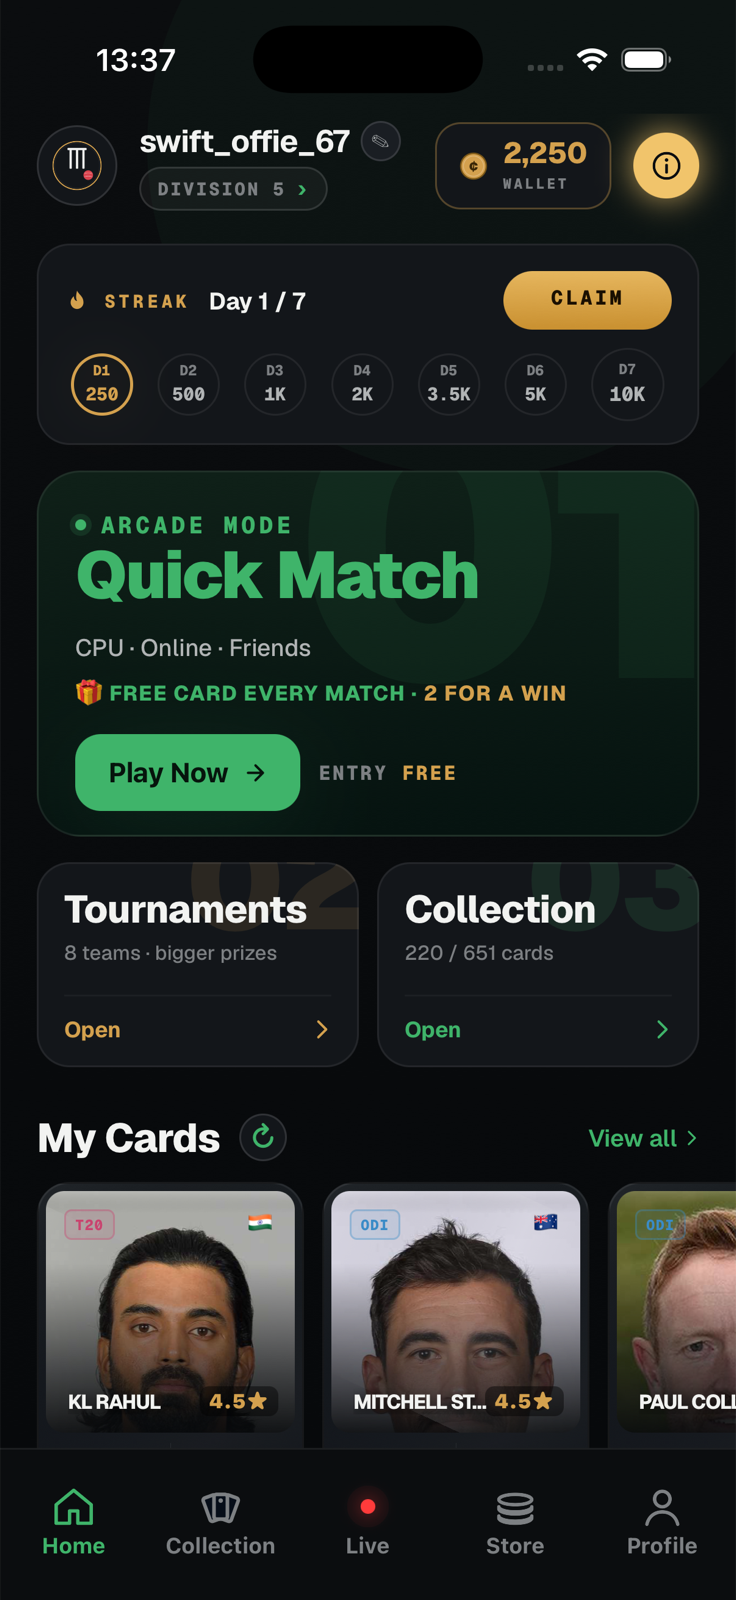
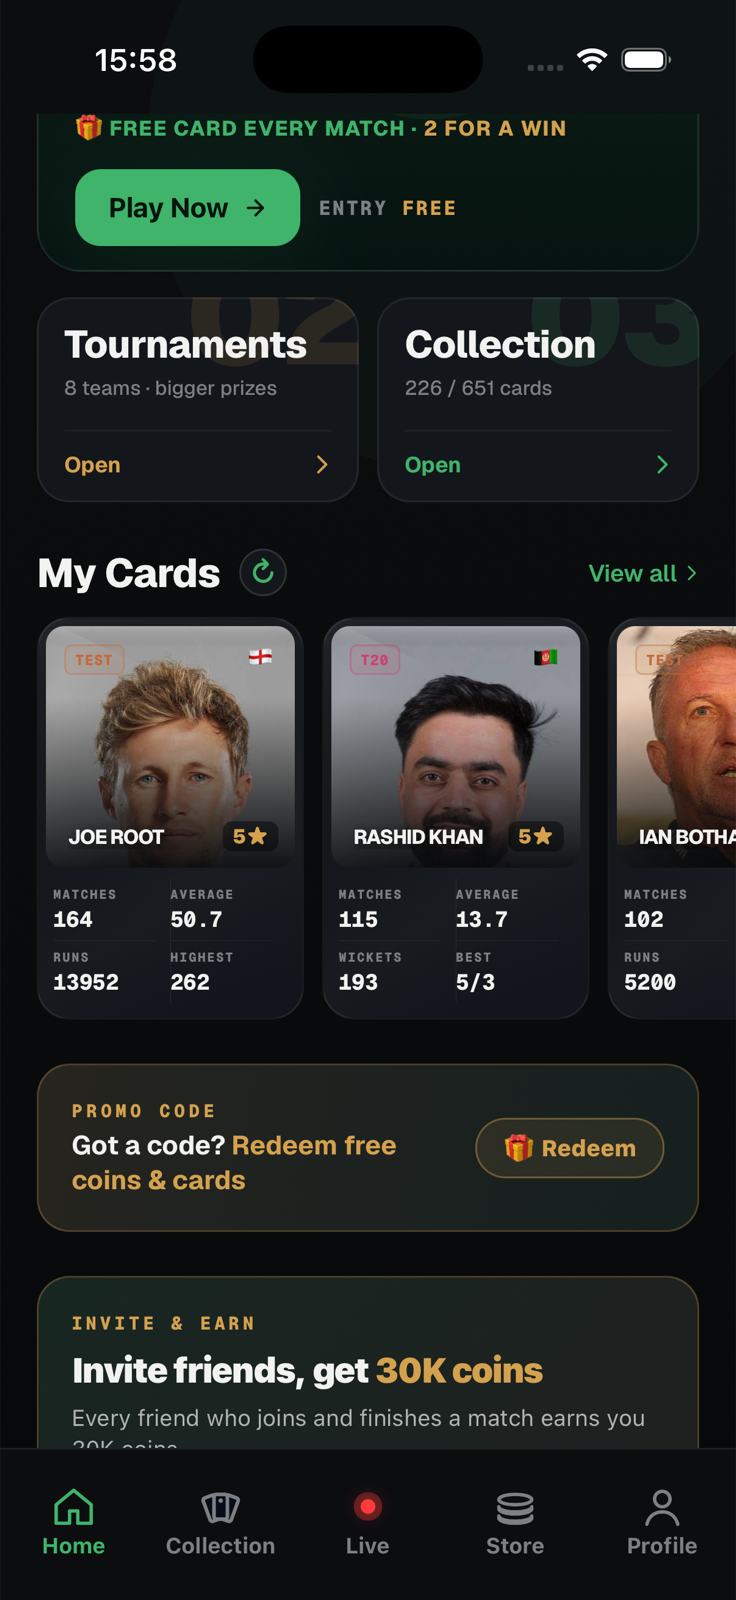
story deck: 1.1.4 refresh — new screenshots (toss, squad picker, match rewards, home hub) + photos-first story

diff --git a/docs/story/index.html b/docs/story/index.html
@@ -220,38 +220,42 @@
     </div>
   </section>
 
-  <!-- 7 · IMAGE GENERATION PIPELINE -->
-  <section class="slide" data-notes="With the data in place, the art. Every one of ~1,480 cards is AI-generated — not licensed photos. Each card gets two illustration prompts, an action shot and a portrait, in one consistent retro trading-card style. These are the actual prompts from the repo. No designer touched a card.">
-    <div class="col stagger" style="gap:6px"><div class="kicker">Chapter 6 · the art</div><h2>Every card is <span class="grad">generated.</span></h2></div>
-    <div class="fill row mt-s" style="gap:1.9vw;align-items:center">
-      <div class="col center"><div class="phone ph-h60"><img src="assets/s-kohli-ai.png" alt=""></div><div class="cap">AI illustration<small>Gemini · descriptor prompt</small></div></div>
-      <div class="col fill gap-s">
-        <div class="code"><span class="h k">▸ actual prompt · Virat Kohli</span>"V Kohli close-up portrait as a retro cricket card illustration, cricket batsman, blue Indian jersey, confident expression, <span class="y">head and upper body only — cropped at chest level</span>, vintage trading-card style, blue-and-saffron gradient, soft stadium bokeh…"</div>
-        <div class="code"><span class="h k">▸ action prompt</span>"SR Tendulkar … batsman in blue &amp; gold Mumbai Indians kit, <span class="y">playing a classic straight drive</span>, bat coming down straight, head over the ball, textbook footwork, dynamic composition…"</div>
-        <div class="row" style="gap:9px;flex-wrap:wrap"><span class="chip">gemini-2.5-flash-image</span><span class="chip y">action + portrait per card</span><span class="chip">~1,480 cards · 0 designers</span></div>
+  <!-- 7 · REAL PLAYER PHOTOS -->
+  <section class="slide" data-notes="With the data in place, the faces. Every card fronts a real photo of the player — headshots plus hand-picked action shots in the right kit, whites for Test, coloured jerseys for ODI and T20. Sourced from the Cricbuzz API and free-licensed archives like Wikimedia Commons, reviewed card by card, and every single image is credited on a public credits page.">
+    <div class="col stagger" style="gap:6px"><div class="kicker">Chapter 6 · the photos</div><h2>Real players, <span class="grad">real photos.</span></h2></div>
+    <div class="fill row mt-s" style="gap:2.2vw;align-items:center">
+      <div class="col center"><div class="phone ph-h60"><img src="assets/s-akram.png" alt=""></div><div class="cap">Wasim Akram<small>photo gallery · swipe through the years</small></div></div>
+      <div class="col fill gap-m">
+        <p class="lead">Every card fronts a <b>real photo</b> — a headshot plus hand-picked action shots in the right kit: whites for Test, coloured jerseys for ODI &amp; T20.</p>
+        <div class="flow" style="max-width:none">
+          <div class="node"><span class="nt">📸 Sourced</span><span class="nd">Cricbuzz API + free-licensed archives (Wikimedia Commons)</span></div><div class="arrow">→</div>
+          <div class="node g"><span class="nt">👀 Reviewed</span><span class="nd">checked card by card — right player, right era, right kit</span></div><div class="arrow">→</div>
+          <div class="node y"><span class="nt">🏷 Credited</span><span class="nd">every image attributed on a public credits page</span></div>
+        </div>
+        <div class="row wrap gap-s"><span class="chip y">700+ real photos</span><span class="chip">format-specific galleries</span><span class="chip">every image credited</span></div>
       </div>
     </div>
   </section>
 
-  <!-- 8 · HEADSHOTS + SUPABASE CDN -->
-  <section class="slide" data-notes="Alongside the AI art, each card carries a real player headshot from the Cricbuzz API — the Kohli card here. Both the generated art and the real photos live in Supabase Storage and are served over a CDN; MongoDB just stores the URL. Bytes stay off the database, and images load fast worldwide.">
-    <div class="col stagger" style="gap:6px"><div class="kicker">Chapter 7 · photos &amp; delivery</div><h2>Real headshots, <span class="grad">served from a CDN.</span></h2></div>
+  <!-- 8 · SUPABASE CDN -->
+  <section class="slide" data-notes="And the delivery. All those photos live in Supabase Storage and are served over a CDN; MongoDB just stores the URL. Bytes stay off the database, and images load fast worldwide.">
+    <div class="col stagger" style="gap:6px"><div class="kicker">Chapter 7 · delivery</div><h2>Every photo, <span class="grad">served from a CDN.</span></h2></div>
     <div class="fill row mt-s" style="gap:2.2vw;align-items:center">
-      <div class="col center"><div class="phone ph-h60"><img src="assets/s-kohli.png" alt=""></div><div class="cap">Real headshot<small>Cricbuzz API photo</small></div></div>
+      <div class="col center"><div class="phone ph-h60"><img src="assets/s-kohli.png" alt=""></div><div class="cap">Virat Kohli<small>real photo · real career stats</small></div></div>
       <div class="col fill gap-m">
-        <p class="lead">Each card also gets a real photo — and every image, AI or photo, is delivered the same way.</p>
+        <p class="lead">One pipeline for every image in the game.</p>
         <div class="flow" style="max-width:none">
-          <div class="node y"><span class="nt">🎨 Gemini art + 📸 Cricbuzz headshot</span><span class="nd">generated + fetched</span></div><div class="arrow">→</div>
+          <div class="node y"><span class="nt">📸 Player photos</span><span class="nd">sourced + reviewed</span></div><div class="arrow">→</div>
           <div class="node g"><span class="nt">🗄 Supabase Storage → CDN</span><span class="nd">public buckets · fast worldwide</span></div>
         </div>
         <p>MongoDB stores only the <b>URL</b> — the image bytes never touch the database.</p>
-        <div class="row wrap gap-s"><span class="chip y">public bucket</span><span class="chip y">CDN delivery</span><span class="chip">765 headshots</span></div>
+        <div class="row wrap gap-s"><span class="chip y">public bucket</span><span class="chip y">CDN delivery</span><span class="chip">700+ photos</span></div>
       </div>
     </div>
   </section>
 
   <!-- 9 · CLAUDE DESIGN → FRONT END -->
-  <section class="slide" data-notes="Now the front end. Claude Code built the screens as a working grey skeleton — every flow functional, unstyled. Then Claude Design turned it into the premium 'Pavilion' theme: dark navy, neon green, illustrated cards. Prove the flows while they're cheap to change; apply the paint once. The badge opens the live design spec.">
+  <section class="slide" data-notes="Now the front end. Claude Code built the screens as a working grey skeleton — every flow functional, unstyled. Then Claude Design turned it into the premium 'Pavilion' theme: dark navy, neon green, gold accents. Prove the flows while they're cheap to change; apply the paint once. The badge opens the live design spec.">
     <div class="col stagger" style="gap:6px"><div class="kicker">Chapter 8 · the design</div><h2>Then the <span class="grad">front end.</span></h2></div>
     <div class="fill row mt-s" style="gap:2.4vw;align-items:center">
       <div class="col fill gap-m">
@@ -261,7 +265,11 @@
           <div class="node g" style="flex:1"><span class="nt">2 · Claude Design</span><span class="nd">a visual pass → the premium "Pavilion" theme on the right</span></div>
         </div>
         <p class="lead">Prove the flows while they're cheap to change. Apply the paint once they're settled — never the other way around.</p>
-        <div class="row wrap gap-s" style="gap:9px"><span class="chip">dark navy + neon green</span><span class="chip">illustrated cards</span><span class="chip">one design system</span></div>
+        <div class="row wrap gap-s" style="gap:9px"><span class="chip">dark navy + neon green</span><span class="chip">gold-trimmed cards</span><span class="chip">one design system</span></div>
+        <a href="https://claude.ai/design/p/019df775-4d5e-79cf-81ee-37615af965da?file=Cricket+Cards+Premium.html" target="_blank" style="display:inline-flex;align-items:center;gap:10px;align-self:flex-start;text-decoration:none;background:rgba(217,119,87,.1);border:1px solid rgba(217,119,87,.45);border-radius:999px;padding:8px 16px 8px 12px;margin-top:4px">
+          <svg width="22" height="22" viewBox="-50 -50 100 100" aria-hidden="true"><g stroke="#D97757" stroke-width="10" stroke-linecap="round"><line y1="-12" y2="-44"/><line y1="-12" y2="-44" transform="rotate(30)"/><line y1="-12" y2="-44" transform="rotate(60)"/><line y1="-12" y2="-44" transform="rotate(90)"/><line y1="-12" y2="-44" transform="rotate(120)"/><line y1="-12" y2="-44" transform="rotate(150)"/><line y1="-12" y2="-44" transform="rotate(180)"/><line y1="-12" y2="-44" transform="rotate(210)"/><line y1="-12" y2="-44" transform="rotate(240)"/><line y1="-12" y2="-44" transform="rotate(270)"/><line y1="-12" y2="-44" transform="rotate(300)"/><line y1="-12" y2="-44" transform="rotate(330)"/></g></svg>
+          <span style="font-weight:800;color:#e8c4b4;font-size:clamp(13px,1.15vw,15px);letter-spacing:.3px">Claude Design <span style="opacity:.55;font-weight:600">— open the spec &amp; demo →</span></span>
+        </a>
       </div>
       <div class="phone ph-h70 lift"><img src="assets/s-home.png" alt=""></div>
     </div>
@@ -270,7 +278,7 @@
   <!-- 10 · THE GAME · RULES -->
   <section class="slide" data-notes="The result — the game itself. It's a stat-comparison card game, Top Trumps for cricket. Hold a hand of real cricketers, call a stat each round, the better number wins the card (lower for bowling average and economy), most cards wins. Four formats, 15-second turns.">
     <div class="fill row mt-s" style="gap:2.2vw;align-items:center">
-      <div class="phone ph-h64"><img src="assets/s-onboard.png" alt=""></div>
+      <div class="phone ph-h64"><img src="assets/s-squadpick.png" alt=""></div>
       <div class="col fill gap-m">
         <div class="kicker">Chapter 9 · the game</div>
         <h2>Top Trumps, <span class="grad">for cricket.</span></h2>
@@ -287,13 +295,13 @@
   </section>
 
   <!-- 11 · GAMEPLAY IN ACTION -->
-  <section class="slide" data-notes="See it played. One stat decides each round — the better number captures the opponent's card. The duel, a round won, a round lost, and the final match result. Whoever holds the most cards takes the match.">
+  <section class="slide" data-notes="See it played. The toss decides who calls first — real lineups, real faces. Then one stat decides each round: the better number captures the opponent's card. Win or lose, every finished match drops free cards into your collection — two if you win.">
     <div class="col stagger" style="gap:6px"><div class="kicker">The game · in action</div><h2>Call a stat. <span class="grad">Better wins.</span></h2></div>
     <div class="grid4 fill mt-m" style="align-items:start">
+      <div class="col center"><div class="phone ph-h54"><img src="assets/s-toss.png" alt=""></div><div class="cap">The toss<small>real lineups · winner plays first</small></div></div>
       <div class="col center"><div class="phone ph-h54"><img src="assets/s-duel.png" alt=""></div><div class="cap">The duel<small>better stat wins the card</small></div></div>
       <div class="col center"><div class="phone ph-h54"><img src="assets/s-win.png" alt=""></div><div class="cap">Round won<small>higher number wins</small></div></div>
-      <div class="col center"><div class="phone ph-h54"><img src="assets/s-lose.png" alt=""></div><div class="cap">Round lost<small>lower number loses</small></div></div>
-      <div class="col center"><div class="phone ph-h54"><img src="assets/s-matchresult.png" alt=""></div><div class="cap">Match result<small>most cards wins · MOTM</small></div></div>
+      <div class="col center"><div class="phone ph-h54"><img src="assets/s-matchresult.png" alt=""></div><div class="cap">Match reward<small>free cards every match · 2 for a win</small></div></div>
     </div>
   </section>
 
@@ -319,10 +327,10 @@
   </section>
 
   <!-- 15 · SHIPPED -->
-  <section class="slide" data-notes="And it shipped — live on the App Store and Google Play, with live scores, AI cards and online play. From a deck of cards on a table to a real app on real phones.">
+  <section class="slide" data-notes="And it shipped — live on the App Store and Google Play, with real player photos, live scores, free card rewards and online play. From a deck of cards on a table to a real app on real phones.">
     <div class="col stagger" style="gap:6px"><div class="kicker">Chapter 10 · shipped</div><h2>Live on <span class="grad">both stores.</span></h2></div>
     <div class="fill col center" style="gap:26px;justify-content:center">
-      <p class="lead center" style="max-width:820px">From a deck of cards on a table to a real game on real phones — iOS, Android, with live cricket scores.</p>
+      <p class="lead center" style="max-width:820px">From a deck of cards on a table to a real game on real phones — iOS, Android, live cricket scores, and a free card with every match.</p>
       <div class="row center" style="gap:42px">
         <div class="col center gap-s"><div class="qr" style="width:clamp(120px,13vw,160px)"><img src="assets/qr-appstore.png" alt=""></div><div class="badge-os"><span class="ico"></span><div><div class="t">Download on the</div><div class="s">App Store</div></div></div></div>
         <div class="col center gap-s"><div class="qr" style="width:clamp(120px,13vw,160px)"><img src="assets/qr-play.png" alt=""></div><div class="badge-os"><span class="ico">▶</span><div><div class="t">Get it on</div><div class="s">Google Play</div></div></div></div>
@@ -331,7 +339,7 @@
   </section>
 
   <!-- 16 · TAKEAWAY -->
-  <section class="slide" data-notes="The whole climb, in order: a deck of cards, a sketch, a prompt, the backend, the data, the art, the design, the store. Every tool here is available to anyone, mostly free. The barrier isn't code anymore — it's a clear idea, described well.">
+  <section class="slide" data-notes="The whole climb, in order: a deck of cards, a sketch, a prompt, the backend, the data, the photos, the design, the store. Every tool here is available to anyone, mostly free. The barrier isn't code anymore — it's a clear idea, described well.">
     <div class="col stagger" style="gap:6px"><div class="kicker">The takeaway</div><h2>From a deck of cards <span class="grad">to the App&nbsp;Store.</span></h2></div>
     <div class="fill col center" style="gap:34px;justify-content:center">
       <div class="tl" style="max-width:1200px">
@@ -340,11 +348,11 @@
         <div class="s"><span class="dot"></span><span class="t">📝 Prompt</span><span class="d">plain English</span></div>
         <div class="s"><span class="dot"></span><span class="t">⚙ Backend</span><span class="d">API · DB · Railway</span></div>
         <div class="s"><span class="dot"></span><span class="t">📊 Data</span><span class="d">real stats → cards</span></div>
-        <div class="s"><span class="dot"></span><span class="t">🎨 Art + design</span><span class="d">AI cards, Pavilion UI</span></div>
+        <div class="s"><span class="dot"></span><span class="t">📸 Photos + design</span><span class="d">real players, Pavilion UI</span></div>
         <div class="s"><span class="dot"></span><span class="t green">🚀 Shipped</span><span class="d">on phones</span></div>
       </div>
       <div class="row wrap center gap-s" style="gap:10px;justify-content:center">
-        <span class="chip g">Claude Code</span><span class="chip g">Claude Design</span><span class="chip">Gemini</span><span class="chip">Cricbuzz</span><span class="chip">MongoDB</span><span class="chip">Supabase</span><span class="chip">Amplitude</span><span class="chip">Railway</span><span class="chip">React Native</span><span class="chip">NestJS</span>
+        <span class="chip g">Claude Code</span><span class="chip g">Claude Design</span><span class="chip">Cricbuzz</span><span class="chip">MongoDB</span><span class="chip">Supabase</span><span class="chip">Amplitude</span><span class="chip">Railway</span><span class="chip">React Native</span><span class="chip">NestJS</span>
       </div>
       <p class="center lead" style="text-align:center">The barrier was never the code. It was a <span class="green">clear idea</span>, described well.</p>
     </div>
